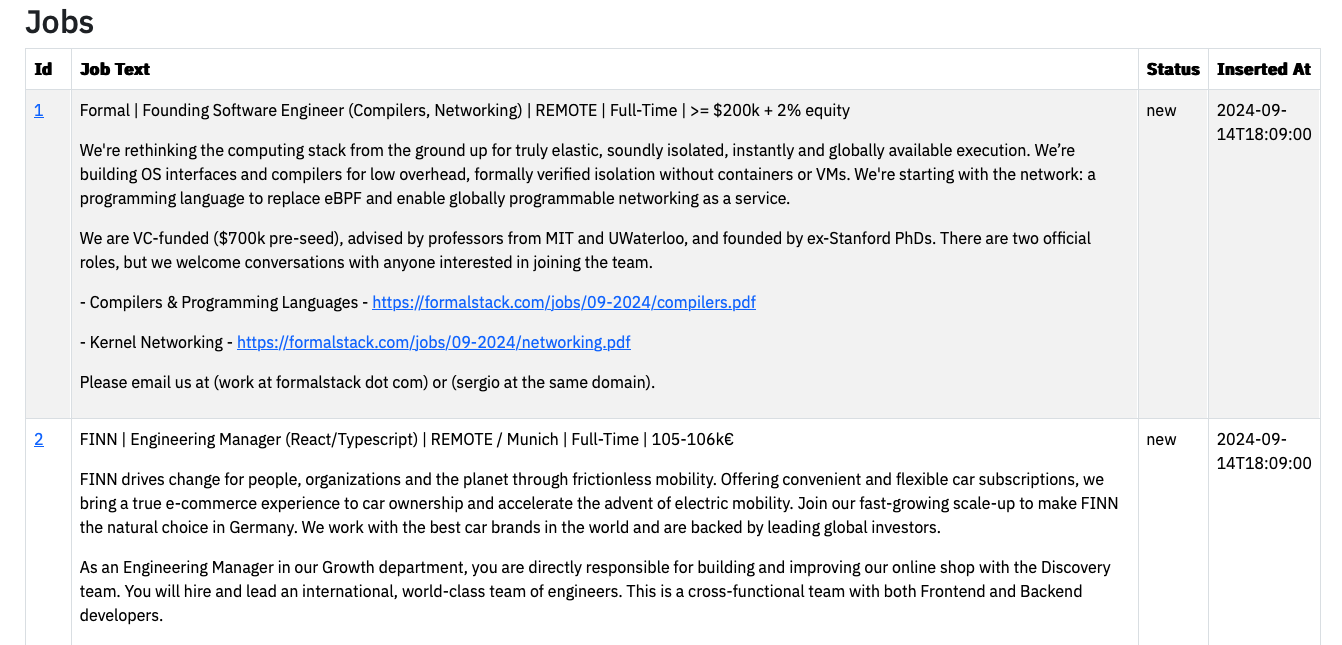
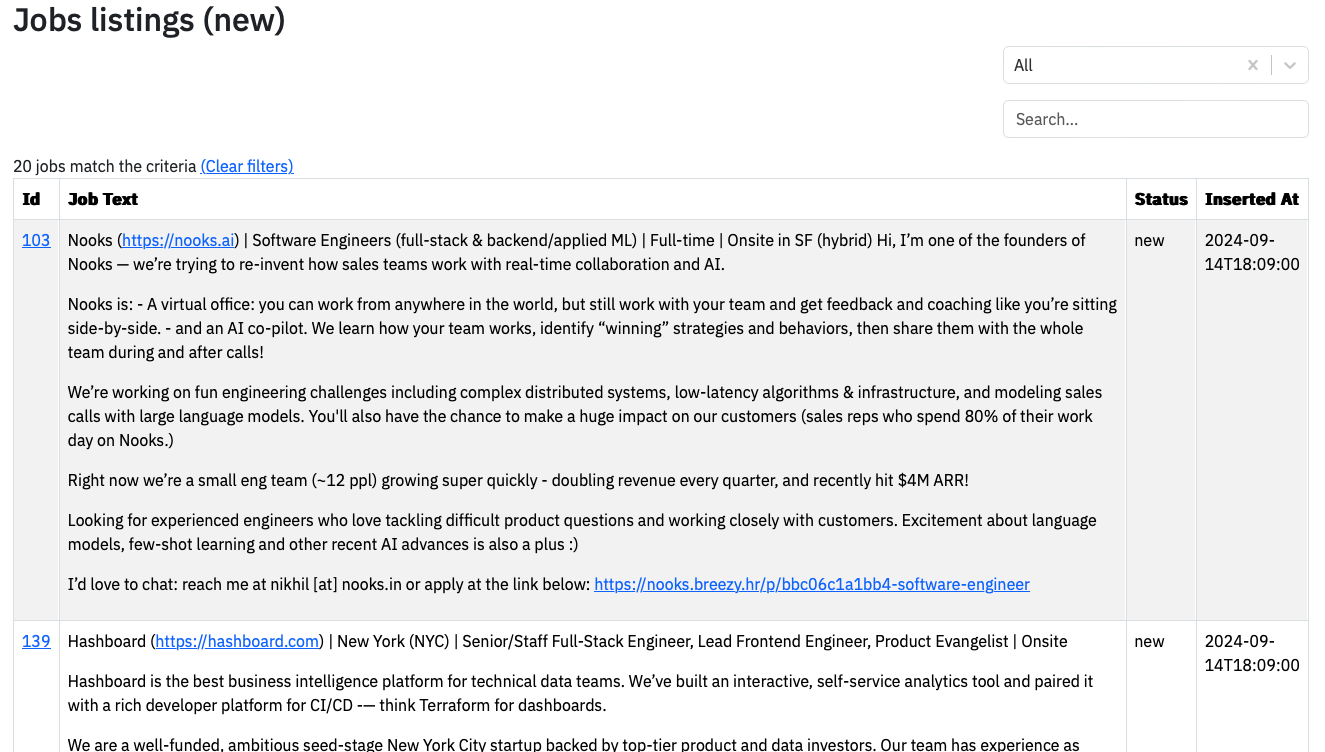
Add search feature, add caching layer for filters

diff --git a/app.py b/app.py
@@ -1,4 +1,5 @@
-from collections import defaultdict
+from typing import List
+
 from fastapi import FastAPI, HTTPException, Request
 from fastapi.responses import HTMLResponse, RedirectResponse, JSONResponse
 from fastui import FastUI, AnyComponent, prebuilt_html, components as c
@@ -7,9 +8,9 @@ from fastui.events import GoToEvent, BackEvent, PageEvent
 from fastui.forms import SelectSearchResponse
 from pydantic import BaseModel, Field
 import uvicorn
-from helper import db_init
+
+from helper import db_init, get_from_cache, set_to_cache
 from models import JobModel, StatusModel
-from typing import List
 
 app = FastAPI()
 db_init()
@@ -19,10 +20,11 @@ class FilterForm(BaseModel):
     status: str = Field(json_schema_extra={
         'search_url': '/api/search/status', 'placeholder': 'Filter by Status...'})
 
-# class SearchForm(BaseModel):
-#     # Send this as "search" query parameter to the backend
-#     search: str = Field(json_schema_extra={
-#                         'search_url': '/api/forms/search', 'placeholder': 'Search...', 'minLength': 3})
+
+class SearchForm(BaseModel):
+    # Send this as "search" query parameter to the backend
+    search: str = Field(json_schema_extra={
+                        'placeholder': 'Search...'})
 
 
 @app.get('/api/search/status', response_model=SelectSearchResponse)
@@ -35,16 +37,29 @@ async def status_search_view(request: Request, q: str) -> SelectSearchResponse:
 
 
 @app.get("/api/", response_model=FastUI, response_model_exclude_none=True)
-def users_table(status: str | None = 'new', search: str | None = None) -> List[AnyComponent]:
+def users_table(status: str | None = None, search: str | None = None, clear_cache: str | None = None) -> List[AnyComponent]:
     """
     Show a table of all jobs, the frontend will fetch this
     when a user visits `/` to fetch components to render.
     """
 
+    # # Set filters to/from cache
+    if status or clear_cache:
+        set_to_cache('status', status)
+
+#        if clear_cache:
+    else:
+        status = get_from_cache('status')
+    if search or clear_cache:
+        set_to_cache('search', search)
+    else:
+        search = get_from_cache('search')
+
     # Initial form values
-    filter_form_initial = {}
-    if status:
-        filter_form_initial['status'] = {'value': status, 'label': status}
+    filter_form_initial = {
+        'status': {'value': 'all', 'label': 'All'},
+        'search': search
+    }
 
     # Fetch jobs
     jobs = JobModel.get_all(status=status, search=search)
@@ -52,7 +67,9 @@ def users_table(status: str | None = 'new', search: str | None = None) -> List[A
     return [
         c.Page(  # Page provides a basic container for components
             components=[
-                c.Heading(text='Jobs', level=2),  # renders `<h2>Jobs</h2>`
+                # renders `<h2>Jobs</h2>`
+                c.Heading(text='Jobs listings (%s)' %
+                          (status if status else 'all'), level=2),
                 c.ModelForm(
                     model=FilterForm,
                     submit_url='.',
@@ -61,13 +78,24 @@ def users_table(status: str | None = 'new', search: str | None = None) -> List[A
                     submit_on_change=True,
                     display_mode='inline',
                 ),
-                # c.ModelForm(
-                #     model=SearchForm,
-                #     submit_url='.',
-                #     method='GOTO',
-                #     submit_on_change=True,
-                #     display_mode='inline',
-                # ),
+                c.ModelForm(
+                    model=SearchForm,
+                    submit_url='.',
+                    initial=filter_form_initial,
+                    method='GOTO',
+                    submit_on_change=True,
+                    display_mode='inline',
+                ),
+                c.Div(
+                    components=[
+                        c.Text(
+                            text='%d jobs match the criteria ' % len(jobs)),
+                        c.Link(
+                            components=[c.Text(text='(Clear filters)')],
+                            on_click=GoToEvent(url='?clear_cache=1'),
+                        ),
+                    ]
+                ),
                 c.Table(
                     data=jobs,
                     columns=[
@@ -85,7 +113,7 @@ def users_table(status: str | None = 'new', search: str | None = None) -> List[A
     ]
 
 
-@app.get("/api/job/{job_id}", response_model=FastUI, response_model_exclude_none=True)
+@ app.get("/api/job/{job_id}", response_model=FastUI, response_model_exclude_none=True)
 # @app.get("/job/{job_id}", response_model=FastUI, response_model_exclude_none=True)
 def job_profile(job_id: int) -> list[AnyComponent]:
     """

diff --git a/helper.py b/helper.py
@@ -1,7 +1,11 @@
 import os
+from datetime import datetime
 
 import sqlite3
 import html2text
+from cacheout import Cache
+
+cache = Cache(maxsize=1000)
 
 
 def get_db_path():
@@ -10,6 +14,26 @@ def get_db_path():
     """
 
     return 'data/hn_jobs.db'
+
+
+def backup_db_file():
+    """
+        Backup the SQLite database file
+    """
+
+    db_path = get_db_path()
+    backup_path = f'{db_path}_{datetime.now().strftime("%Y%m%d_%H%M%S")}.bak'
+
+    # Check if the database exists
+    db_exists = os.path.exists(db_path)
+
+    if db_exists:
+        # Copy the database file
+        os.system(f'cp {db_path} {backup_path}')
+
+        return "Database backup created at " + backup_path
+
+    return "No database to backup"
 
 
 def db_connect():
@@ -63,3 +87,13 @@ def html_to_markdown(html):
     markdown_content = markdown_converter.handle(html)
 
     return markdown_content
+
+
+def get_from_cache(key):
+    """ Get filters from cache """
+    return cache.get(key)
+
+
+def set_to_cache(key, value):
+    """ Set filters in cache """
+    cache.set(key, value)

diff --git a/models/JobModel.py b/models/JobModel.py
@@ -75,18 +75,19 @@ def get_all(status=None, search=None):
     cursor = conn.cursor()
 
     query_part = ''
-    query_params = ()
+    query_params = []
     if status:
-        query_part = 'WHERE status = ?'
-        query_params = (status,)
+        query_part += 'AND status = ?'
+        query_params.append(status)
 
     if search:
-        query_part = 'WHERE job_text LIKE ?'
-        query_params = (f'%{search}%',)
+        query_part += 'AND job_text LIKE ?'
+        query_params.append(f'%{search}%')
 
     query = f"""
     SELECT id, job_text, inserted_at, applied_at, status
     FROM jobs
+    WHERE 1=1
     {query_part}
     """
     cursor.execute(query, query_params)

diff --git a/models/StatusModel.py b/models/StatusModel.py
@@ -14,7 +14,7 @@ def get_all():
         Status(value='applied', label='Applied'),
         Status(value='discarded', label='Discarded'),
         Status(value='interviewed', label='In interview'),
-        Status(value='rejected-ore', label='Rejected (pre-interview)'),
+        Status(value='rejected-pre', label='Rejected (pre-interview)'),
         Status(value='rejected-post', label='Rejected (post-interview)'),
     ]
 

diff --git a/README.md b/README.md
@@ -30,8 +30,8 @@ pip install -r requirements.txt
 # Use the fetch_job_postings.py script to scrape and store job postings from the latest “Who is Hiring?” thread. 
 # eplace the URL with the current “Who is Hiring?” thread URL.
 python3 fetch_job_postings.py --url https://news.ycombinator.com/item?id=41425910
-$ Database created
-$ 283 new jobs added
+# $ Database created
+# $ 283 new jobs added
 
 # Run the FastAPI server with Uvicorn:
 uvicorn app:app
